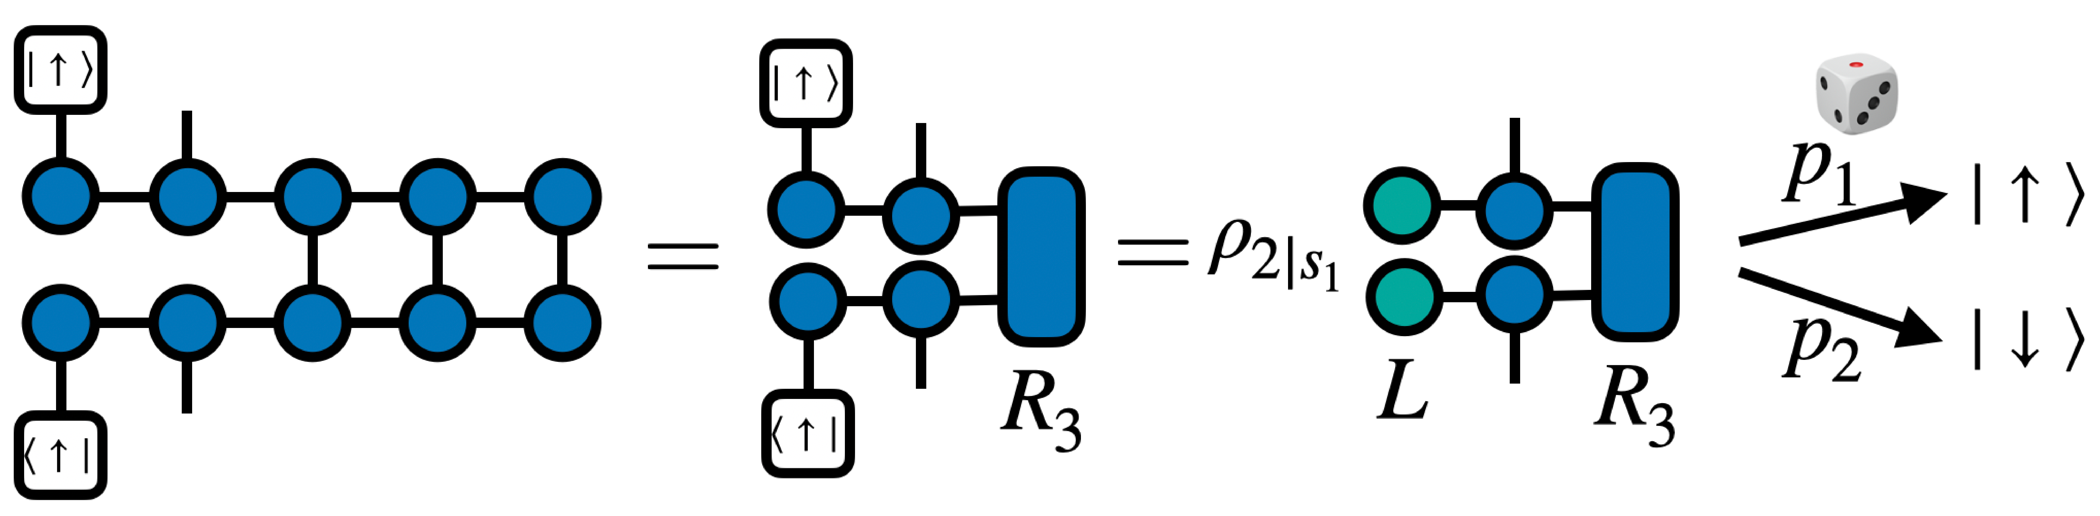
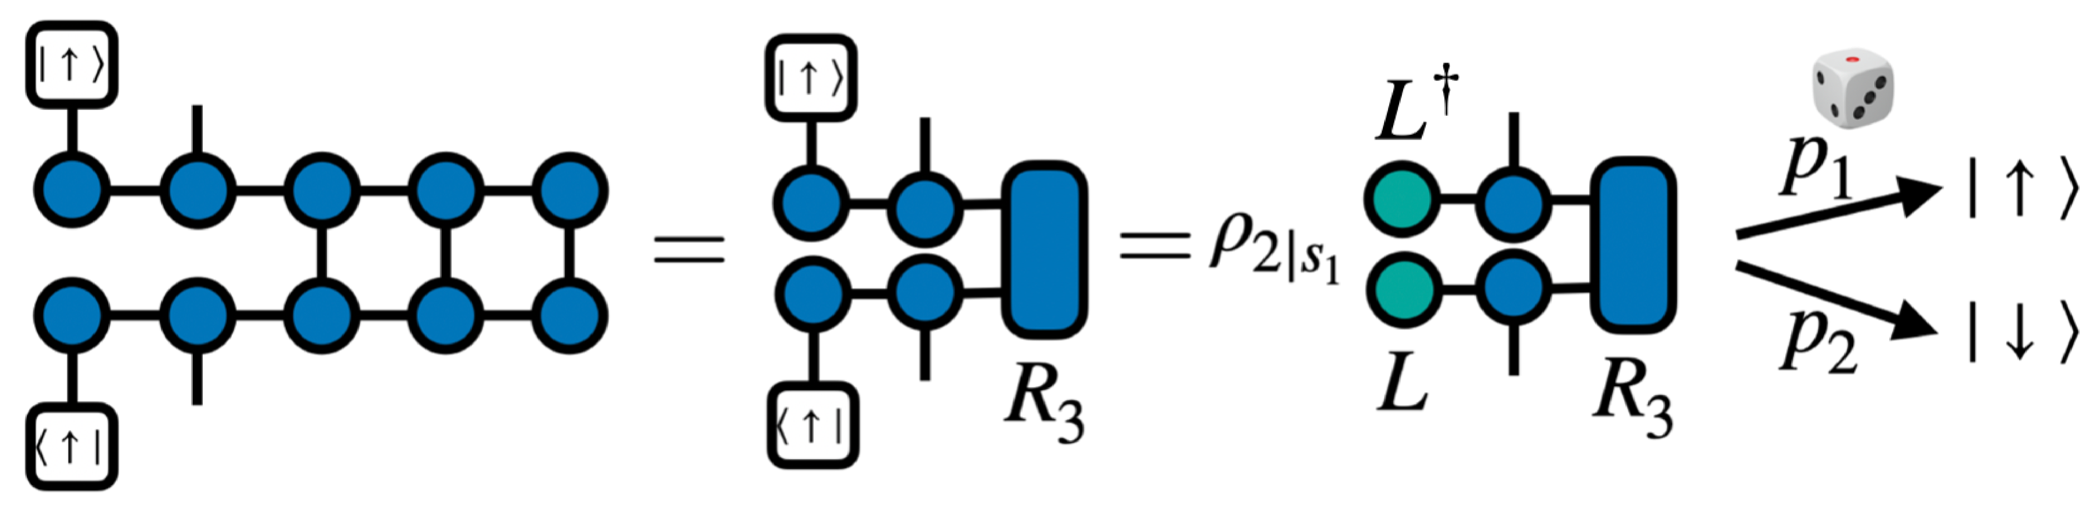
Say which projected copy of site 1 is L (#19)
## Summary

The Tutorial 3 walkthrough read as though both projected copies of site
1 became `L`, when `L` is the one from `psi` alone and the row above it
is its conjugate. The second site figure now labels the two separately.

---------

diff --git a/Tutorials/HandsOn2/README.md b/Tutorials/HandsOn2/README.md
@@ -265,7 +265,7 @@ The following set of diagrams illustrates how to then sample from site 2, assumi
   <img src="resources/images/3-sample_second_site.png" alt="Sampling the second site" width="700">
 </p>
 
-You project both copies of site 1 onto the state you sampled, and those projected tensors become the first `L`. Closing `L` and `Rs[3]` around site 2 gives the density matrix for site 2 conditioned on the outcome at site 1, which you sample from the same way. The sweep carries on to the end of the chain, absorbing each sampled site into `L` as it goes.
+You project both copies of site 1 onto the state you sampled. The projected copy from `psi` is the first `L`, and the one above it, from `psid`, is the `L†` in the diagram. Closing those two and `Rs[3]` around site 2 gives the density matrix for site 2 conditioned on the outcome at site 1, which you sample from the same way. The sweep carries on to the end of the chain, absorbing each sampled site into `L` as it goes.
 
 The following functionality may be useful:
 
